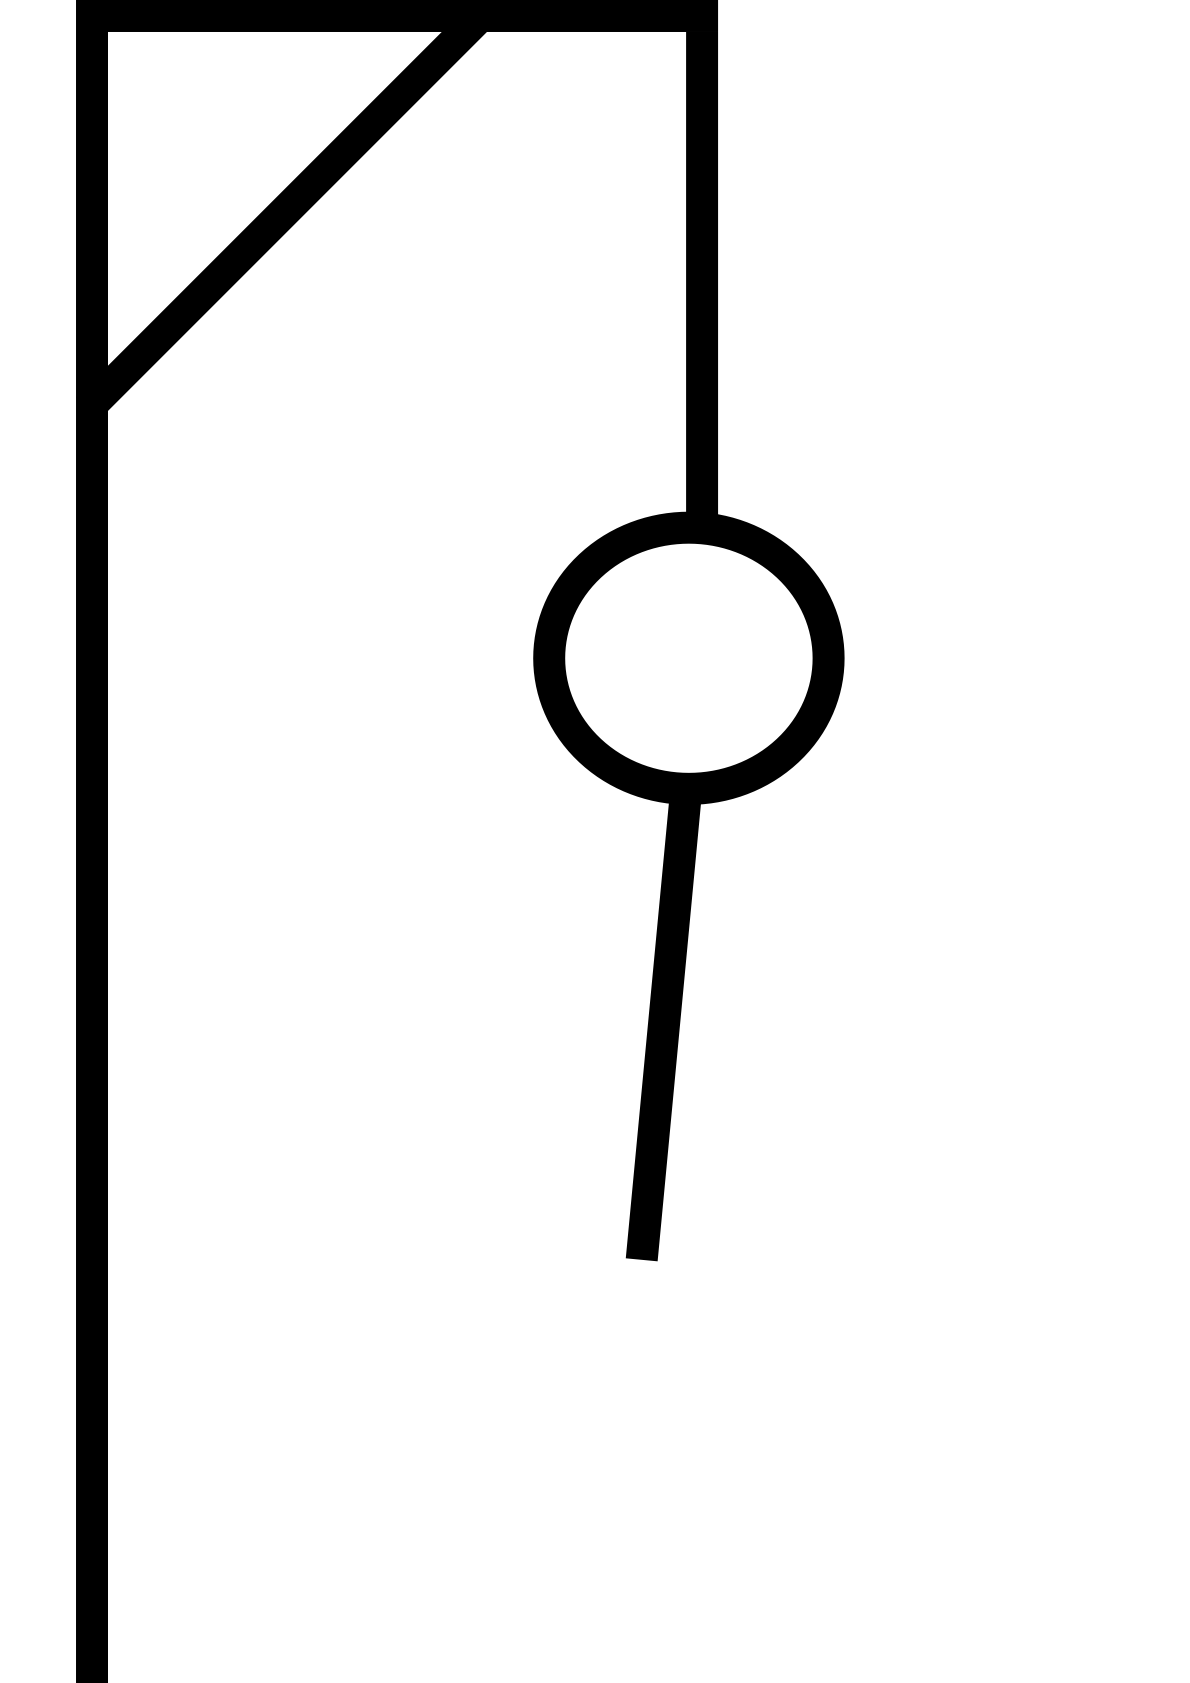
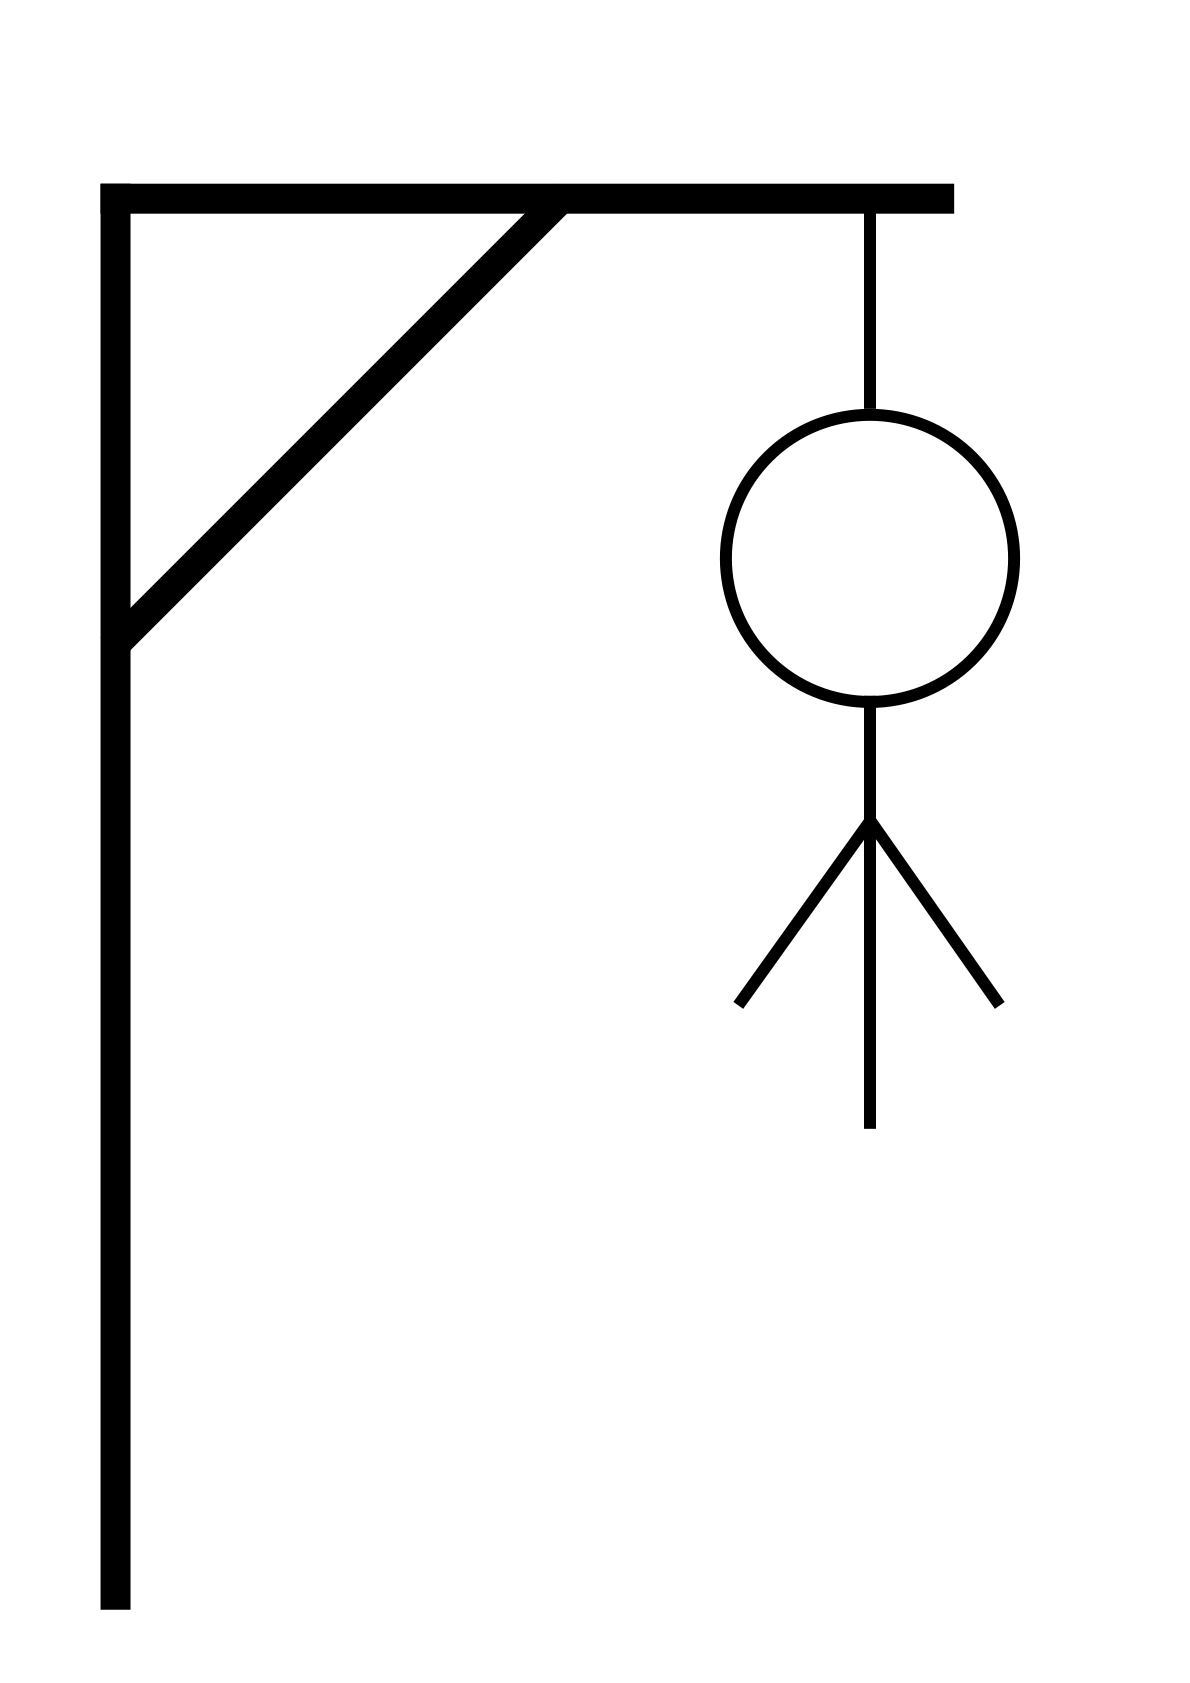
FIX: Images not shown on Android
Images were not shown on Android due to multiple reasons:
some PNGs were made by editing file name ending manually what caused problems, I made new images that are "real" PNGs
Build action: sometimes build actions are not set automatically, right click on file in solution explorer and select "build action -> MAUI image" manually

Changed region(s): [[0.0622, 0.0, 0.8706, 1.0], [0.8084, 0.3708, 0.8395, 0.4017]]

diff --git a/GameHub/Views/HangmanView.xaml b/GameHub/Views/HangmanView.xaml
@@ -9,13 +9,10 @@
                 <Setter Property="HeightRequest" Value="20"/>
                 <Setter Property="FontSize" Value="12"/>
             </Style>
-
         </ResourceDictionary>
     </ContentView.Resources>
 
     <VerticalStackLayout x:Name="verticalStack">
-
-        <Label x:Name="wrongCharsLbl"/>
         <Label
             Text="Hangman"            
             FontSize="Title"
@@ -26,21 +23,32 @@
 
         <Image
              x:Name="failStateImg"
-            Source="Images/hangmanimgstart.png"             
+            Source="Images/imgstart"             
              WidthRequest="100"
              HeightRequest="100"
             VerticalOptions="CenterAndExpand"
             HorizontalOptions="Center" />
-        <HorizontalStackLayout x:Name="baseGuessedCharsStack"/>
 
+        <VerticalStackLayout x:Name="baseGuessedCharsStack"/>
         <Frame BorderColor="Gray" Margin="10">
 
         <HorizontalStackLayout>
-            <Editor x:Name="charInputEditor" Background="gray" HorizontalTextAlignment="Center" VerticalTextAlignment="Center" FontSize="Title" MaxLength="1" WidthRequest="5" ></Editor>
+            <Editor x:Name="charInputEditor"
+                    Background="gray"
+                    HorizontalTextAlignment="Center"
+                    VerticalTextAlignment="Center"
+                    FontSize="Title"
+                    MaxLength="1"
+                    WidthRequest="50"
+                    HeightRequest="50"
+                    Margin="2"
+                    IsSpellCheckEnabled="False">
+            </Editor>
             <Button Clicked="Button_Clicked" Text="guess"/>
         </HorizontalStackLayout>
 
         </Frame>
+        
 
     </VerticalStackLayout>
 </ContentView>

diff --git a/GameHub/ViewModels/HangmanViewModel.cs b/GameHub/ViewModels/HangmanViewModel.cs
@@ -13,14 +13,14 @@ namespace GameHub.ViewModels
         int maxWordLenght = 8;
         int guessesCount = 0;
         int charsSolved = 0;
-        int maxWrongGuesses = 11;   //only 11 Images, max index 10
+        int maxWrongGuesses = 8;   //only 9 Images, max index 8
         List<char> wrongCharsList = new();
         public string wrongChars = "";
         VerticalStackLayout verticalStack;
         HorizontalStackLayout guessedCharsStack;
         int defaultFontSize = 20;
 
-        public HangmanViewModel(HangmanModel model, MainPage mainPage, VerticalStackLayout verticalStack, HorizontalStackLayout guessedCharsStack, Image failStateImg, int wordLenght = 5)
+        public HangmanViewModel(HangmanModel model, MainPage mainPage, VerticalStackLayout verticalStack, VerticalStackLayout guessedCharsStack, Image failStateImg, int wordLenght = 5)
         {
             this.failStateImg = failStateImg;
             this.model = model;
@@ -87,7 +87,7 @@ namespace GameHub.ViewModels
             return st;
         }
 
-        public void MakeGuess(char guessedChar, HorizontalStackLayout stack)
+        public void MakeGuess(char guessedChar, VerticalStackLayout stack)
         {
             guessedChar = char.ToUpper(guessedChar);
 
@@ -137,7 +137,7 @@ namespace GameHub.ViewModels
         void GameLost()
         {
             mp.DisplayAlert("Game over", $"Max wrong guesses reached, the word was {word}.", "ok");
-            mp.ClearStack();
+            mp.ClearStack();            
         }
 
         string SortedWrongGuesses()
@@ -156,7 +156,7 @@ namespace GameHub.ViewModels
             return s;
         }
 
-        void UpdateLabels(HorizontalStackLayout stack)
+        void UpdateLabels(VerticalStackLayout stack)
         {
             stack.Clear();
             stack.Children.Add(CharsInBordersStack());

diff --git a/GameHub/Views/HangmanView.xaml.cs b/GameHub/Views/HangmanView.xaml.cs
@@ -8,7 +8,6 @@ public partial class HangmanView : ContentView
     MainPage mp;
     HangmanModel model;
     HangmanViewModel vm;
-    Image pic;
 
     //TODO: Max word length German is 15, English max is 11, add check or more/less words
     public HangmanView(MainPage mainPage, int wordLength = 4, GameHub.Enums.Language language = Language.English )
@@ -22,14 +21,23 @@ public partial class HangmanView : ContentView
     void Button_Clicked(System.Object sender, System.EventArgs e)
     {
         string s = charInputEditor.Text;
-        char c = char.Parse(s);
+        charInputEditor.Unfocus();
 
-        vm.MakeGuess(c, baseGuessedCharsStack);
-        UpdateFailImg(vm.wrongGuessesCount);
+        try
+        {
+            char c = char.Parse(s);
+            vm.MakeGuess(c, baseGuessedCharsStack);
+            UpdateFailImg(vm.wrongGuessesCount);
+            charInputEditor.Text = "";
+        }
+        catch (Exception ex)
+        {
+
+        }
     }
 
     void UpdateFailImg(int wrongGuesses)
-    {
+     {
         failStateImg.Source = model.GetImageSource(wrongGuesses);
     }
 }

diff --git a/GameHub/Models/HangmanModel.cs b/GameHub/Models/HangmanModel.cs
@@ -38,8 +38,6 @@ namespace GameHub.Models
                 ImageSource.FromFile("Images/imge.png"),
                 ImageSource.FromFile("Images/imgf.png"),
                 ImageSource.FromFile("Images/imgg.png"),
-                ImageSource.FromFile("Images/imgh.png"),
-                ImageSource.FromFile("Images/imgi.png"),
                 ImageSource.FromFile("Images/imglost.png")
             };
 

diff --git a/GameHub/Views/TicTacToeView.xaml.cs b/GameHub/Views/TicTacToeView.xaml.cs
@@ -1,4 +1,4 @@
-using GameHub.Models;
+using GameHub.Models;
 using GameHub.ViewModels;
 using GameHub.Enums;
 
